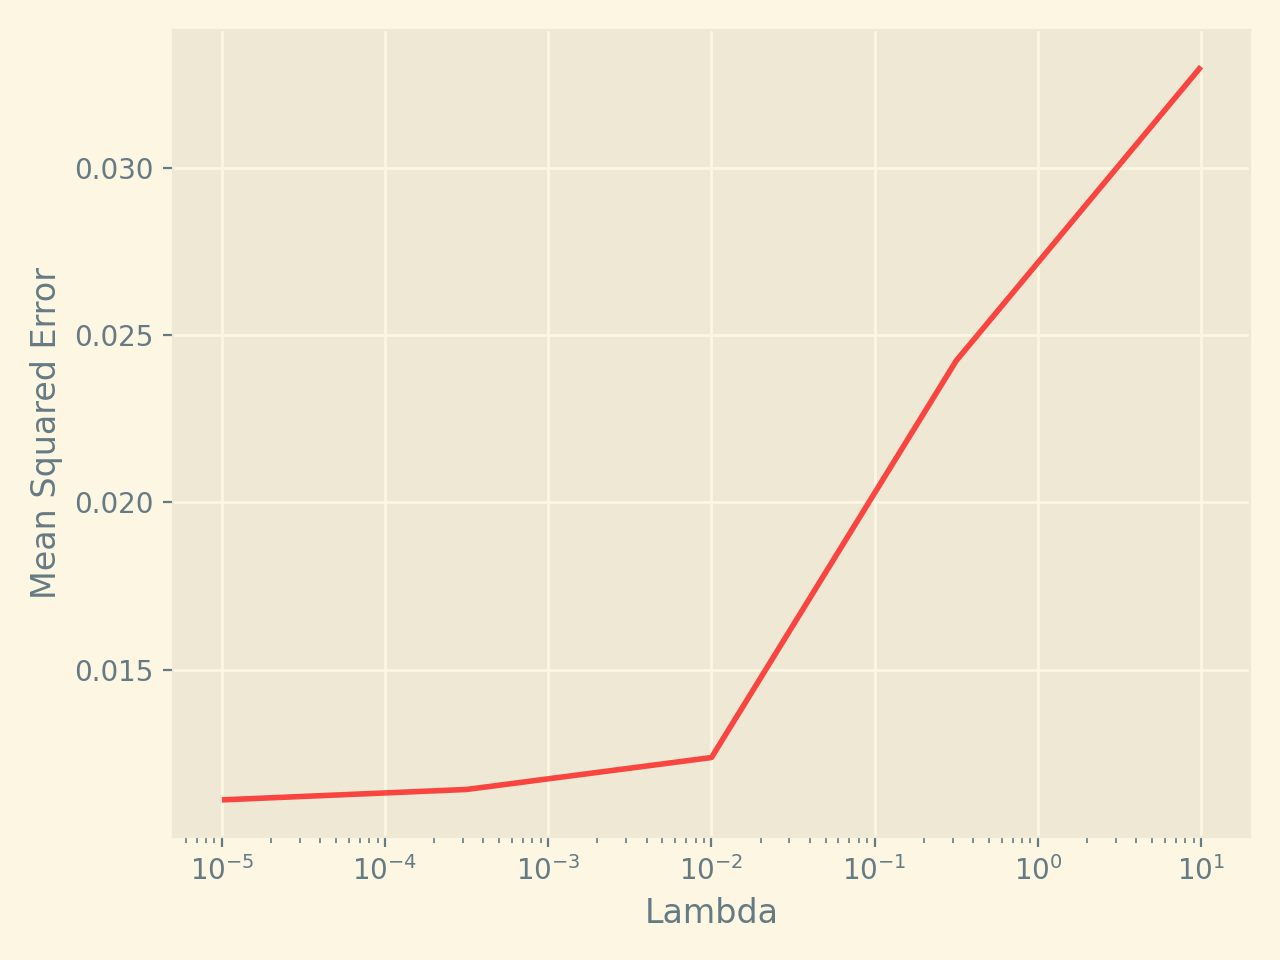
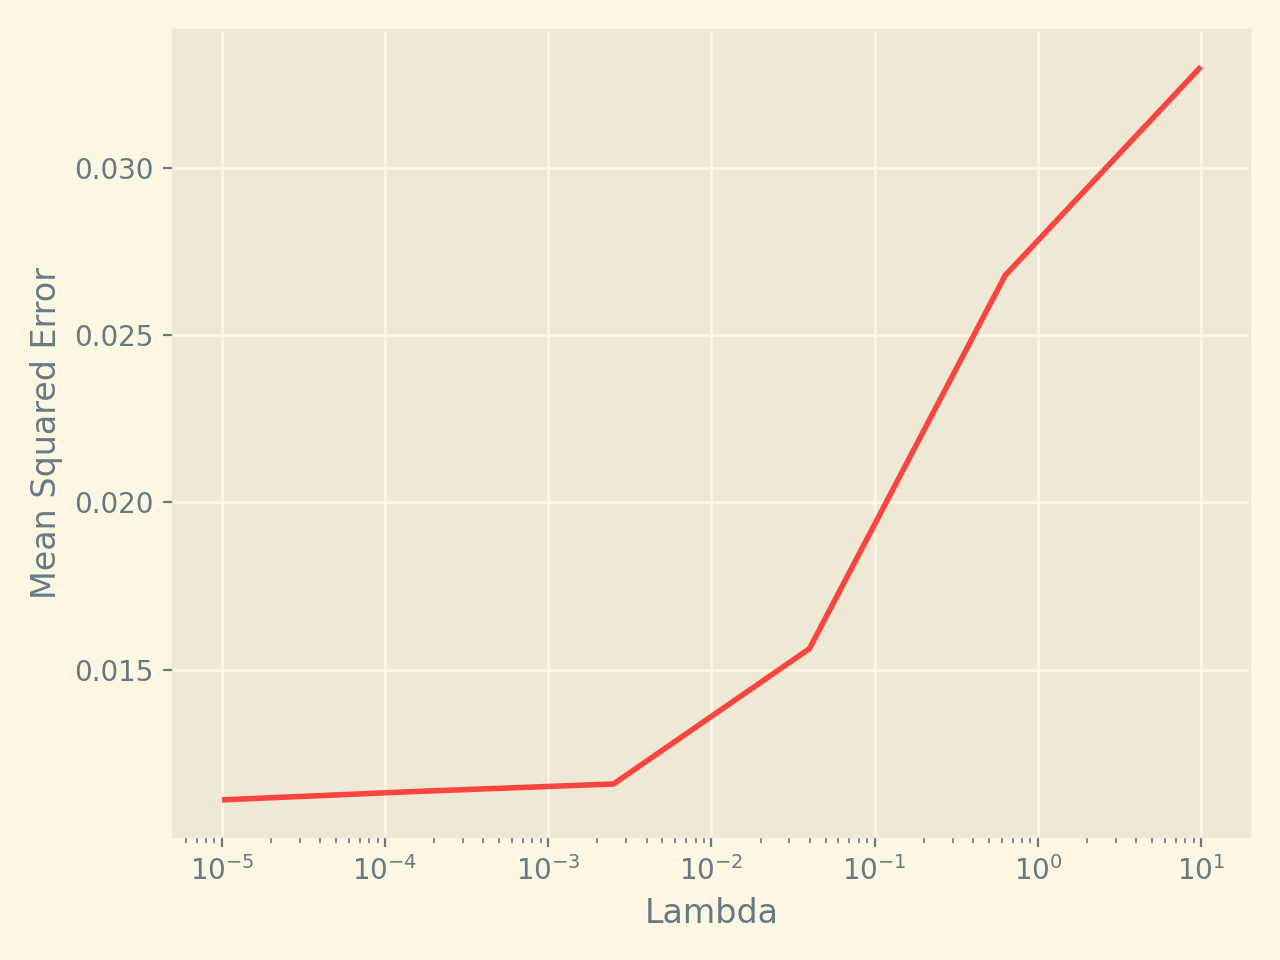
Made figures for Franke function

diff --git a/Project1/Solution/main.py b/Project1/Solution/main.py
@@ -345,7 +345,7 @@ if __name__ == '__main__':
         plt.savefig("Showing_terrain_{data_used}")
         plt.show()
         
-    nlambdas = 5
+    nlambdas = 6
     lambdas = np.logspace(-5, 1, nlambdas)
 
     polynomal_orders = [1, 2, 3, 4, 5]
@@ -378,6 +378,7 @@ if __name__ == '__main__':
     plots_task_1a.plot_betaparams_polynomial_order(save_filename=f"task_a_betas_OLS_{data_used}_N{N}")
 
 #%%  Making example plot of original terrain data and predicted terrain data
+# Only run for terrain data
 
     LinReg = LinRegression(5, x, y, z, False)  # create class
     LinReg.split_data(1 / 5)  # perform split of data
@@ -507,7 +508,7 @@ if __name__ == '__main__':
     plots_task_1c.plot_MSE_some_lambdas(lambdas_to_plot=lambdas[idx_to_plot],
                                         save_filename=f"task_c_MSE_some_lambdas_lasso_{data_used}_N{N}")
     
-    plots_task_1c.plot_betaparams_polynomial_order(save_filename=f"task_b_optimal_betas_lasso_{data_used}_N{N}")
+    plots_task_1c.plot_betaparams_polynomial_order(save_filename=f"task_c_optimal_betas_lasso_{data_used}_N{N}")
     
     
 #%% Making summary plots for task a) through c)
@@ -533,7 +534,7 @@ if __name__ == '__main__':
     plt.ylabel("Mean Squared Error")
     plt.xlabel("Polynomial degree")
     plt.legend()
-    save_fig(f"MSE_all_methods_{data_used}_N{N}")
+    save_fig(f"task_a_to_c_MSE_all_methods_{data_used}_N{N}")
     plt.show()
     
     
@@ -550,7 +551,7 @@ if __name__ == '__main__':
     plt.ylabel(r"R$^2$")
     plt.xlabel("Polynomial degree")
     plt.legend()
-    save_fig(f"R2_all_methods_{data_used}_N{N}")
+    save_fig(f"task_a_to_c_R2_all_methods_{data_used}_N{N}")
     plt.show()
 
 
@@ -565,6 +566,7 @@ if __name__ == '__main__':
     poly_order = 5
     # For polynomial order of 10, k fold = 5-10
     
+    # Using the optimal found in b) and c)
     lambda_ridge = 1e-5
     lambda_lasso = 1e-5
 
@@ -651,7 +653,7 @@ if __name__ == '__main__':
     plt.ylabel("Mean Squared Error")
     plt.xlabel("Polynomial degree")
     plt.legend()
-    save_fig(f"MSE_all_methods_with_crossval_{data_used}_N{N}")
+    save_fig(f"task_f_MSE_all_methods_with_crossval_{data_used}_N{N}")
     plt.show()
     
     
@@ -668,7 +670,7 @@ if __name__ == '__main__':
     plt.ylabel(r"R$^2$")
     plt.xlabel("Polynomial degree")
     plt.legend()
-    save_fig(f"R2_all_methods_with_crossval_{data_used}_N{N}")
+    save_fig(f"task_f_R2_all_methods_with_crossval_{data_used}_N{N}")
     plt.show()
 
 
@@ -676,18 +678,8 @@ if __name__ == '__main__':
 
     print('\n #### Task e) #### \n')
     
-    if data_used == "Franke":
-        
-        # Lowering amount of datapoints to better see bias/variance tradeoff
-        N = 500
-        x = np.sort(np.random.uniform(0, 1, N))
-        y = np.sort(np.random.uniform(0, 1, N))
-        
-        # With noise:
-        z = FrankeFunction(x, y) + np.random.normal(0, 0.1, x.shape)
-
     # First reproduce figure similar figure 2.11 in hastie
-    max_polydegree = 10
+    max_polydegree = 50
     polynomal_orders = [degree for degree in range(1, max_polydegree+1)]
     
     (MSE_train_df_OLS,
@@ -711,14 +703,15 @@ if __name__ == '__main__':
 
     # Make plot to show bias variance analysis of only OLS regression, making own function for
     # bootstrapping and cross validation
-
+    
     n_boostraps = 100
     
     bootstrap_df, error_liste, bias_liste, variance_liste  = \
         run_bootstrap(regression_method='OLS', polynomal_orders=polynomal_orders, x=x, y=y, z=z, n_boostraps=n_boostraps)
 
     print(bootstrap_df)
-
+    bootstrap_df.to_csv(rf"Results\task_e_bootstrap_results{data_used}_N{N}.csv")
+    
     # Plot the bias variance analysis (e)
 
     plt.figure()
@@ -737,6 +730,14 @@ if __name__ == '__main__':
     Plot for model complexity on x axis, MSE on y_axis. bootstrap, cross validation
     and own code is included as lines. FIrst for OLS and k = 5 and 10
     """
+    
+    max_polydegree = 10
+    polynomal_orders = [degree for degree in range(1, max_polydegree+1)]
+
+    n_boostraps = 100
+    
+    bootstrap_df, error_liste, bias_liste, variance_liste  = \
+        run_bootstrap(regression_method='OLS', polynomal_orders=polynomal_orders, x=x, y=y, z=z, n_boostraps=n_boostraps)
 
     # Hente ut data for å plotte OLS
     MSE_test_df, R2_test_df, scikit_MSE_test_df, scikit_r2_test_df, summary_df = run_crossval_comparison(
